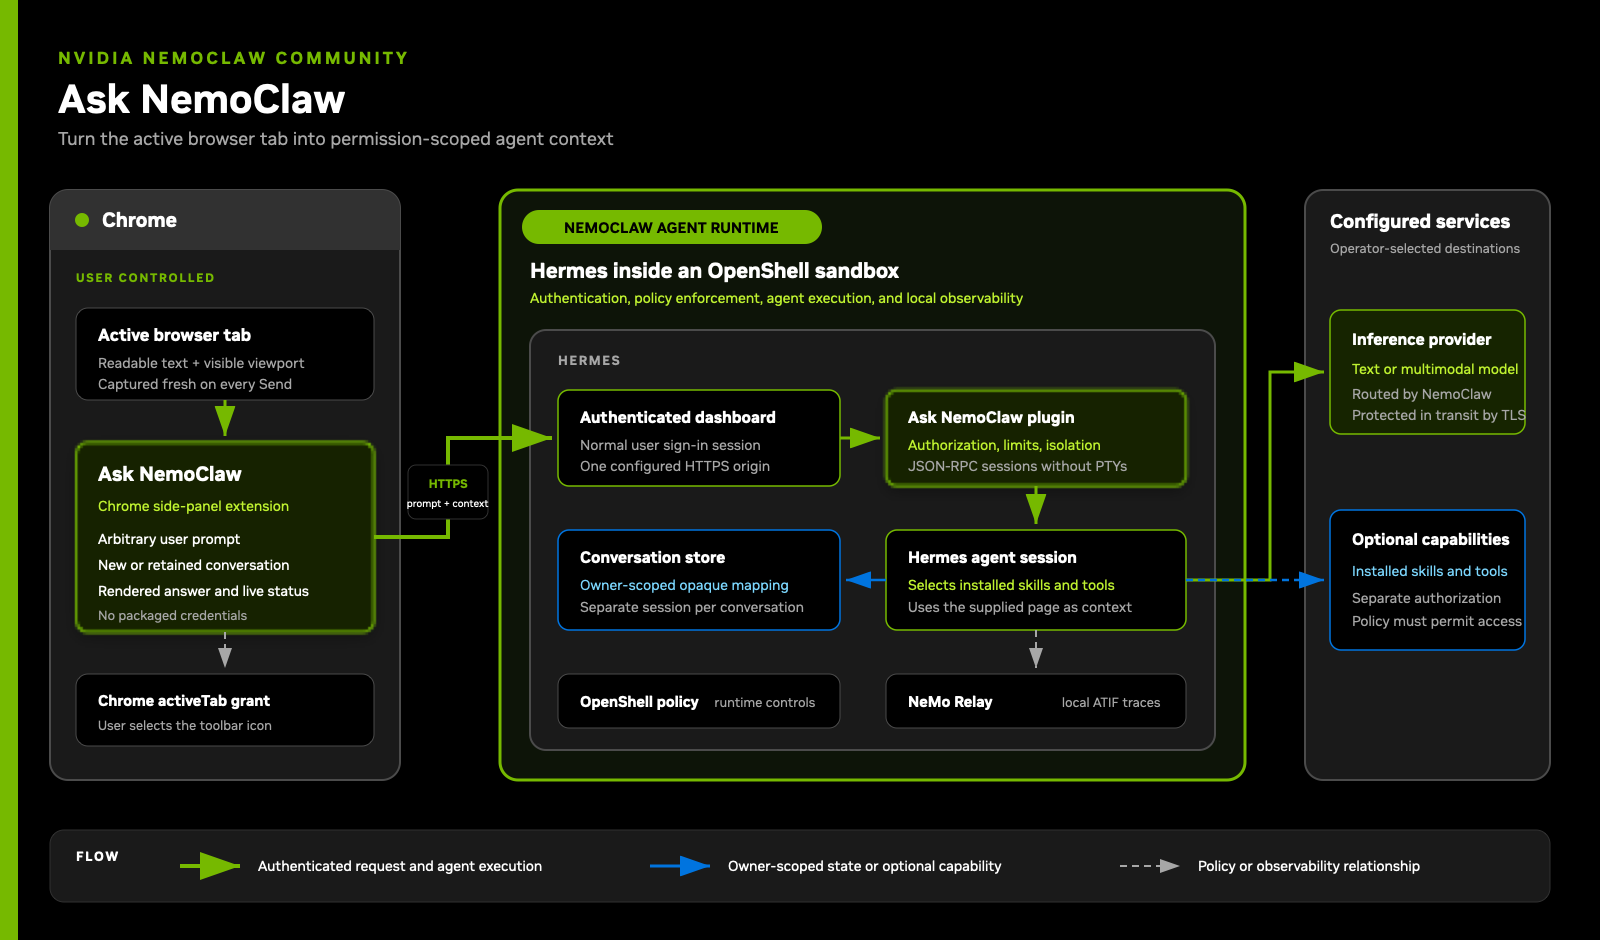
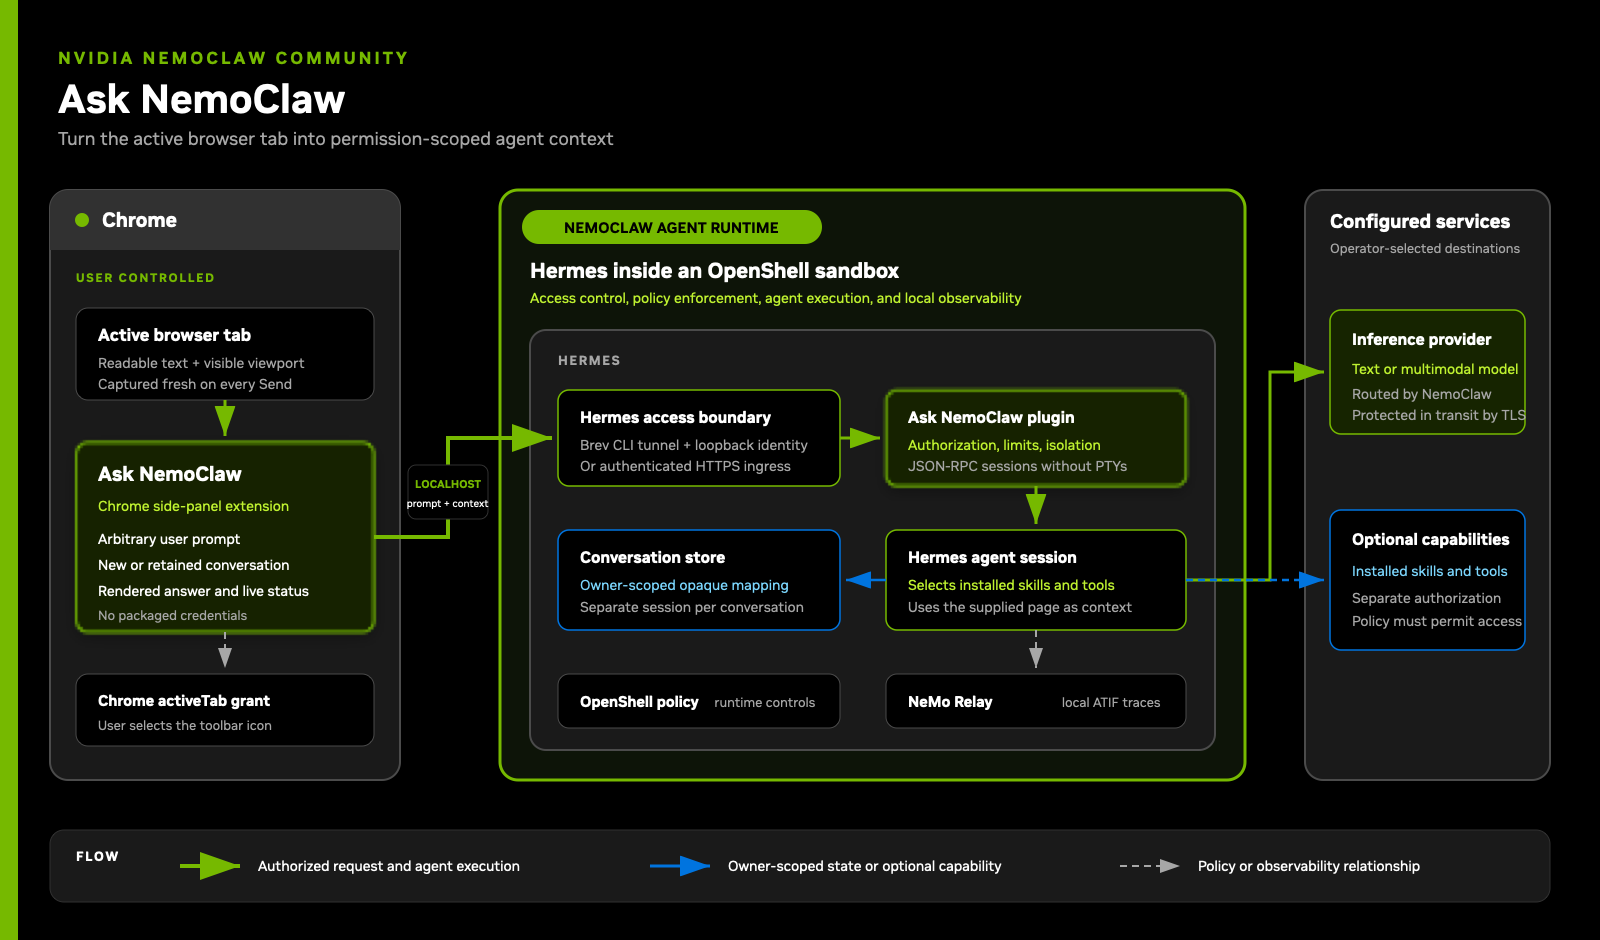
docs(brev): make loopback flow the community quick start

diff --git a/examples/recipes/nvidia/browser-context-knowledge-assistant/README.md b/examples/recipes/nvidia/browser-context-knowledge-assistant/README.md
@@ -57,14 +57,15 @@ used for the side-panel rendering.
 
 Chrome grants temporary access to the active tab after the user selects the
 extension. Ask NemoClaw sends the prompt and bounded browser context to one
-authenticated Hermes origin. The plugin maps each browser conversation to a
+user-configured Hermes origin. The plugin maps each browser conversation to a
 separate non-PTY Hermes session. Hermes selects installed skills and tools,
 OpenShell applies runtime controls, and NeMo Relay records local ATIF traces.
 
 The Chrome extension can reach only an origin granted through Chrome host
-permissions. An authenticated HTTPS ingress is the recommended community
-deployment. The extension derives the service endpoint from the dashboard URL.
-It checks the standard Hermes path
+permissions. The Brev quick start uses an authenticated Brev CLI port forward
+to a loopback-only Hermes listener. A shared deployment instead requires an
+authenticated HTTPS ingress that supports API clients. The extension derives
+the service endpoint from the dashboard URL. It checks the standard Hermes path
 `/api/plugins/ask-nemoclaw` and the Brev adapter path `/ask-nemoclaw`.
 
 The community extension contains no initial deployment hostname. On first use,
@@ -335,28 +336,14 @@ nemohermes ask-nemoclaw status
 nemohermes ask-nemoclaw dashboard-url --quiet
 ```
 
-Configure Hermes's bundled username/password provider before exposing the
-dashboard. Run the helper from an interactive sandbox shell so the password is
-entered with terminal echo disabled and never appears in a command argument,
-repository file, or extension setting:
+Do not configure Hermes dashboard authentication for the Brev loopback quick
+start. The sandbox image contains a root-owned, read-only marker that permits
+one development identity only when Hermes sees a loopback hostname. External
+requests without a Hermes session remain unauthorized. The authenticated Brev
+CLI tunnel is the access boundary for this single-user development mode.
 
-```bash
-nemohermes ask-nemoclaw connect
-python /opt/hermes/plugins/ask-nemoclaw/configure_dashboard_auth.py
-exit
-```
-
-The helper enables Hermes's bundled `basic` authentication plugin and stores
-only a scrypt password hash and a randomly generated session-signing secret in
-Hermes's private `config.yaml`. It also removes dashboard-authentication entries
-left in `.env` by an earlier recipe version. The browser extension does not
-receive or retain the username or password. Restart the complete sandbox so the
-dashboard process reloads the provider:
-
-```bash
-nemohermes ask-nemoclaw stop
-nemohermes ask-nemoclaw start
-```
+The included `configure_dashboard_auth.py` helper is for a later shared HTTPS
+deployment. It is not part of the Brev quick start.
 
 ### 4. Forward Hermes to the workstation
 
@@ -369,10 +356,18 @@ brev port-forward <brev-instance-name> -p 18789:18789
 If NemoClaw selected a different dashboard port, use that number on both sides.
 Keep this terminal running while you use the extension.
 
-Open `http://127.0.0.1:18789/`, sign in to Hermes, and enter that same localhost
-URL in the extension settings. After the extension has copied the Hermes
-session into Chrome's memory-backed extension session, the dashboard tab can be
-closed. The port-forward command must continue running.
+Enter `http://127.0.0.1:18789` in the extension settings. No Hermes login is
+required in this loopback development mode. The extension should immediately
+create its first conversation. The port-forward command must continue running.
+
+If local port `18789` is already occupied, map another local port to the remote
+dashboard port, for example:
+
+```bash
+brev port-forward <brev-instance-name> -p 18790:18789
+```
+
+Then configure the extension with `http://127.0.0.1:18790`.
 
 Do not enter a Brev Secure Link such as `https://<port>-<id>.gobrev.dev` in the
 extension. Brev Secure Links protect web pages with redirect-based browser
@@ -389,7 +384,15 @@ reference for such an ingress; a Brev Secure Link is not that API ingress.
 
 ### 5. Build and load the Chrome extension
 
-Run this from the example directory on the workstation:
+On the workstation, clone the community repository if it is not already
+available, then enter the example directory:
+
+```bash
+git clone https://github.com/NVIDIA/nemoclaw-community.git
+cd nemoclaw-community/examples/recipes/nvidia/browser-context-knowledge-assistant
+```
+
+Build the portable extension:
 
 ```bash
 bash scripts/build-extension.sh
@@ -402,8 +405,8 @@ Then:
 3. Select **Load unpacked**.
 4. Select the printed `build/extension` directory.
 5. Pin **Ask NemoClaw** to the Chrome toolbar.
-6. Open the side panel, enter the authenticated NemoClaw HTTPS URL in Settings,
-   and approve Chrome's request for that exact origin.
+6. Open the side panel, enter `http://127.0.0.1:18789` in Settings, and approve
+   Chrome's request for that exact origin.
 
 Install this portable build once. Change deployments later from the Settings
 gear; rebuilding or reinstalling is not required.
@@ -488,9 +491,11 @@ Expected evidence:
 
 For a live verification:
 
-1. Open the Hermes dashboard and confirm ordinary dashboard chat still works.
-2. Sign in, close the Hermes dashboard tab, and confirm the extension still
-   lists or creates conversations.
+1. Start the Brev port forward and configure the extension with its localhost
+   URL. Confirm that the extension creates a conversation without a Hermes
+   login prompt.
+2. Open the Hermes dashboard through the same localhost URL and confirm
+   ordinary dashboard chat still works.
 3. Open a public page with readable text and a distinctive visible diagram or
    color, then select the extension icon.
 4. Ask for a short summary and a description of the visible diagram. Confirm
